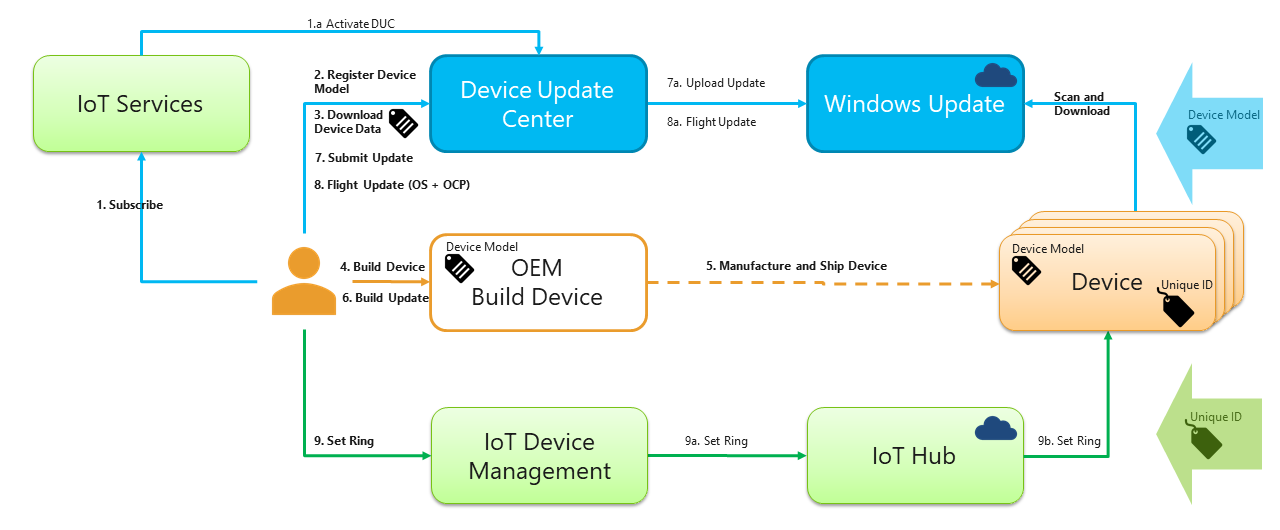
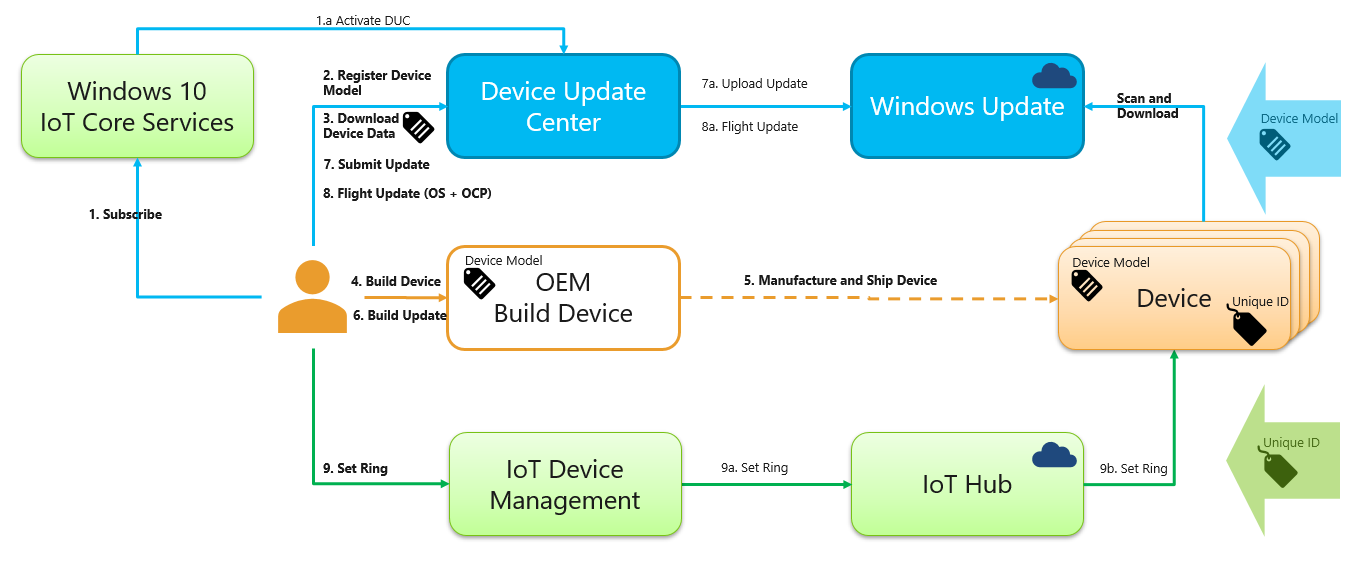
Updating links and picture for IoTCoreServices

Changed region(s): [[0.0, 0.0302, 1.0, 0.966], [0.9062, 0.6943, 1.0, 0.9358], [0.375, 0.8151, 0.4688, 0.8453]]

diff --git a/windows-iotcore/commercialize-your-device/IoTCoreServicesOverview.md b/windows-iotcore/commercialize-your-device/IoTCoreServicesOverview.md
@@ -19,13 +19,13 @@ A subscription to Windows 10 IoT Core Services comes with three main benefits:
 > | _Benefit_  |  _Description_  |
 > |----------|---------|
 > | [10 years of support](https://docs.microsoft.com/windows/deployment/update/waas-overview#long-term-servicing-channel) | Access to Windows 10 IoT Core LTSC with security and quality updates only (no new features). |
-> | [Update control with Device Update Center](https://docs.microsoft.com/windows-hardware/service/iot/) | Create and manage device updates at scale using cloud-side controls. |
+> | [Update control with Device Update Center](http://aka.ms/deviceupdatecenter) | Create and manage device updates at scale using cloud-side controls. |
 > | [Device Health Attestation (DHA)](https://github.com/ms-iot/iot-core-azure-dm-client/blob/master/docs/dha-architecture.md) | Rights to commercialize a device with DHA to affirm device health remotely. |
 
 ## 10 Years of Support
 OEMs get 10 years of support on Windows 10 IoT Core via access to monthly updates from the [Windows Long-Term Servicing Channel (LTSC)](https://docs.microsoft.com/windows/deployment/update/waas-overview#long-term-servicing-channel). This includes security and quality updates for the operating system to keep device security up to date. Devices using the LTSC release won’t receive feature updates, enabling OEMs to focus updates on stability by minimizing changes to the base operating system. Microsoft typically offers new LTSC releases every 2-3 years, with each release supported over a 10-year lifecycle.
 ## Update Control with Device Update Center
-[Update control](https://docs.microsoft.com/windows-hardware/service/iot/) with the newly announced Device Update Center (DUC) provides the ability to create, customize, and control device updates. These updates are distributed by the same Content Distribution Network (CDN) as Windows Update which is used daily by millions of Windows customers around the world. Updates can be applied to the operating system and device drivers as well as OEM-specific applications and files. Updates can be flighted to test devices prior to broader distribution.
+[Update control](http://aka.ms/deviceupdatecenter/) with the newly announced Device Update Center (DUC) provides the ability to create, customize, and control device updates. These updates are distributed by the same Content Distribution Network (CDN) as Windows Update which is used daily by millions of Windows customers around the world. Updates can be applied to the operating system and device drivers as well as OEM-specific applications and files. Updates can be flighted to test devices prior to broader distribution.
 
 Here's a diagram of the update flow in Device Update Center:
 
@@ -38,7 +38,7 @@ Here's a diagram of the update flow in Device Update Center:
 
 ## Getting Started
 
-Windows 10 IoT Core Services is currently in limited preview with select partners. To join the preview program, please email [iotservices@microsoft.com](mailto:iotservices@microsoft.com). A broader preview will be ready in July 2018 with general availability later this year.
+Windows 10 IoT Core Services is currently in limited preview with select partners. For questions or to join the preview program, please email [iotservices@microsoft.com](mailto:iotservices@microsoft.com). A broader preview will be ready in July 2018 with general availability later this year.
 
 Earlier in the year, [we announced](https://blogs.windows.com/business/2018/02/27/microsoft-doubles-down-on-windows-10-iot-with-added-support/) that with the next release of Windows 10 IoT, we will provide 10 years of support for both Windows 10 IoT Core and Windows 10 IoT Enterprise. We also announced a partnership with NXP to support Windows 10 IoT Core on their i.MX 6 and i.MX 7 processors. The Windows 10 IoT Core Services offering builds on these announcements, as we continue to evolve the Windows IoT platform and make investments to support the IoT devices of today and tomorrow.
 
